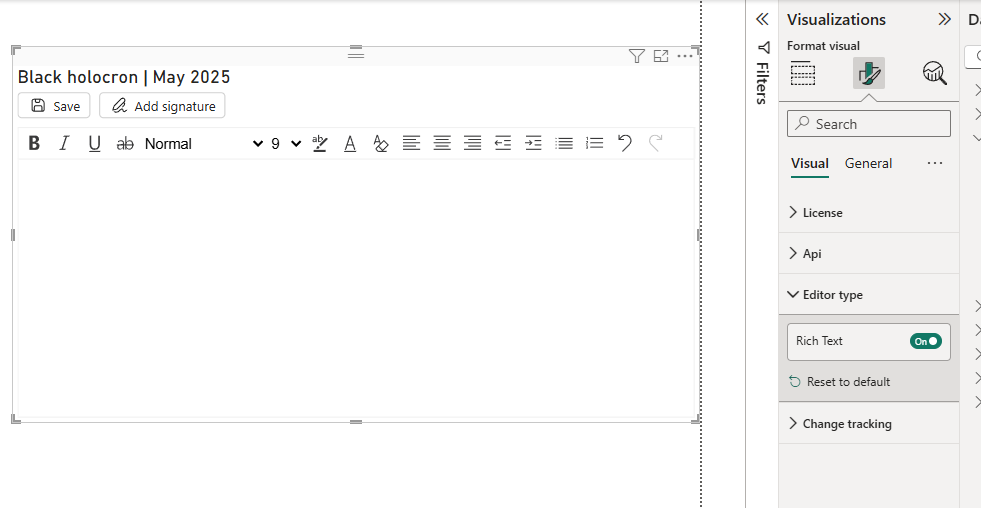
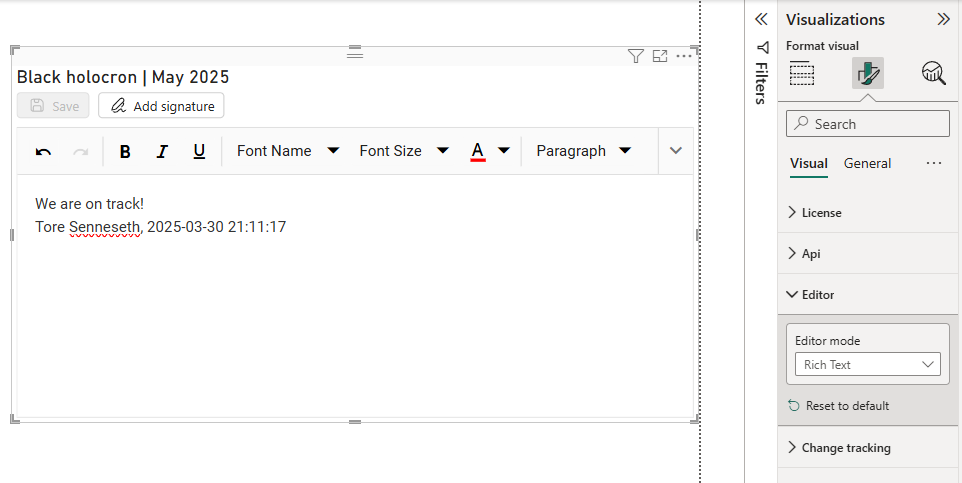
partially done

diff --git a/articles/PowerBI/writeback-comments/enable-entraid-api.md b/articles/PowerBI/writeback-comments/enable-entraid-api.md
@@ -1,0 +1,33 @@
+# Enable Entra ID API access
+
+To enable change tracking, the Writeback Comments visual requires permissions to obtain information about the signed-in user. To achieve this, the visual uses the Microsoft Entra ID API provided by Power BI. 
+
+> [!NOTE]
+> If Change tracking is set to `None`, you can ignore this topic.  
+
+<br/>
+
+## 1) Enable AppSource Custom Visuals SSO (Required)
+In your Fabric portal, go to the Admin section, search for `AppSource Custom Visuals SSO` and make sure it's enabled.
+
+![img](/images/powerbi/writeback-comments/appsource-custom-visuals-sso.png)
+
+<br/>
+
+## 2) Grant Admin consent on behalf of the organization (Optional)
+
+The first time the visual calls the Entra ID API, the user is presented with a UI (provided by Microsoft) that takes them through the consent flow. 
+
+To avoid requiring all users go through this consent flow, you can ask a Microsoft Entra ID administrator in your organization to enter the following url in the browser and consent on behalf of the organization.
+
+```
+https://login.microsoftonline.com/common/adminconsent?client_id=5f804a63-f38e-402a-833b-73ab3f892380&redirect_uri=https%3A%2F%2Fprofitbase-powerbi-visuals-writeback-table
+```
+
+After having completed the consent flow, the following Entreprise App registration should be visible in Microsoft Entra ID.
+![img](/images/powerbi/writeback-comments/enterprise-app-registration.png)
+
+<br/>
+
+
+

diff --git a/articles/PowerBI/writeback-comments/configuration/api.md b/articles/PowerBI/writeback-comments/configuration/api.md
@@ -1,1 +1,11 @@
 # API
+
+Specifies the endpoint of the writeback service.
+
+When users edits and saves comments, the changes are sent to a service that writes back to the Direct Query data source used by the visual. If you try to edit and save data without specifying the API URL, you will get an error message.  
+
+You will need a separate API endpoint for every visual in a report or dashboard (unless they use the same Direct Query data source).  
+
+You have two options for creating a writeback service:  
+1) Use Profitbase Flow. This is the easiest option, and only takes a few minutes to set up.
+2) Create an Azure Function and implement the API for writing data to the data source yourself. If you choose this option, you will need a license for the visual.

diff --git a/articles/PowerBI/writeback-comments/getting-started.md b/articles/PowerBI/writeback-comments/getting-started.md
@@ -27,7 +27,7 @@ When you press `Save`, this field will be updated in the data source.
 
 #### 4) Configure the backend
 To save user comments, you must specify the API endpoint for the service that updates the data source. You have two options for doing this:  
-1) Use Profitbase Flow. This is the easiest option, and only takes a few seconds to set up. 
+1) Use Profitbase Flow. This is the easiest option, and only takes a few minutes to set up. 
 2) Create an Azure Function and implement the API for saving data to the data source yourself. If you choose this option, you will need a license for the visual.
 
 When you have created the backend, paste the endpoint address into the API Url setting in the Formatting panel.  

diff --git a/articles/PowerBI/writeback-comments/configuration/editor.md b/articles/PowerBI/writeback-comments/configuration/editor.md
@@ -1,0 +1,12 @@
+# Editor
+
+
+### Editor mode
+Specifies which editor mode to use. 
+
+| Option              | Description                    |
+|---------------------|--------------------------------|
+| Plain Text          | Edit comments using a plain text editor without formatting options. |
+| Rich Text           | Edit comments with rich formatting options, such as setting font size, color, bold, underline, etc. If you select `Rich Text` mode, note that the comments written back to the data source will contain HTML tags. If you plan to display the comments in systems that does not render HTML well, choose Plain Text instead. |
+
+![img](/images/powerbi/writeback-comments/richtext-ui.png)

diff --git a/articles/PowerBI/writeback-comments/configuration/change-tracking.md b/articles/PowerBI/writeback-comments/configuration/change-tracking.md
@@ -16,6 +16,13 @@ Change tracking enables the following:
 
 <br/>
 
+# Enable change tracking
+To enable change tracking, the visual needs to obtain information about the signed-in user. For this purpose, the visual uses a Microsoft Entra ID API provided by Power BI. To enable the API, please ensure that:  
+- [Required] [Enable AppSource Custom Visuals SSO](../enable-entraid-api.md#1-enable-appsource-custom-visuals-sso-required)
+- [Optional] [Apply admin consent on behalf of the organization](../enable-entraid-api.md#2-grant-admin-consent-on-behalf-of-the-organization-optional).
+
+<br/>
+
 #### Disable change tracking
 To disable change tracking, select `None` in the dropdown list.
 
